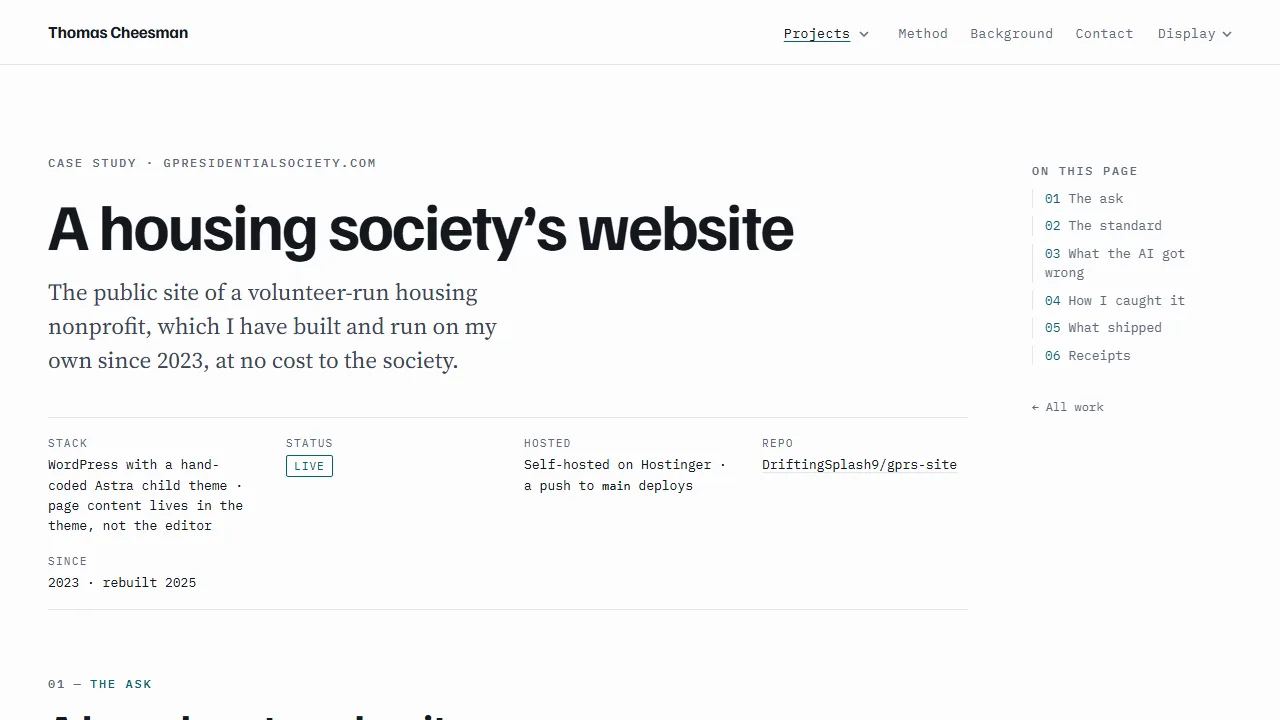
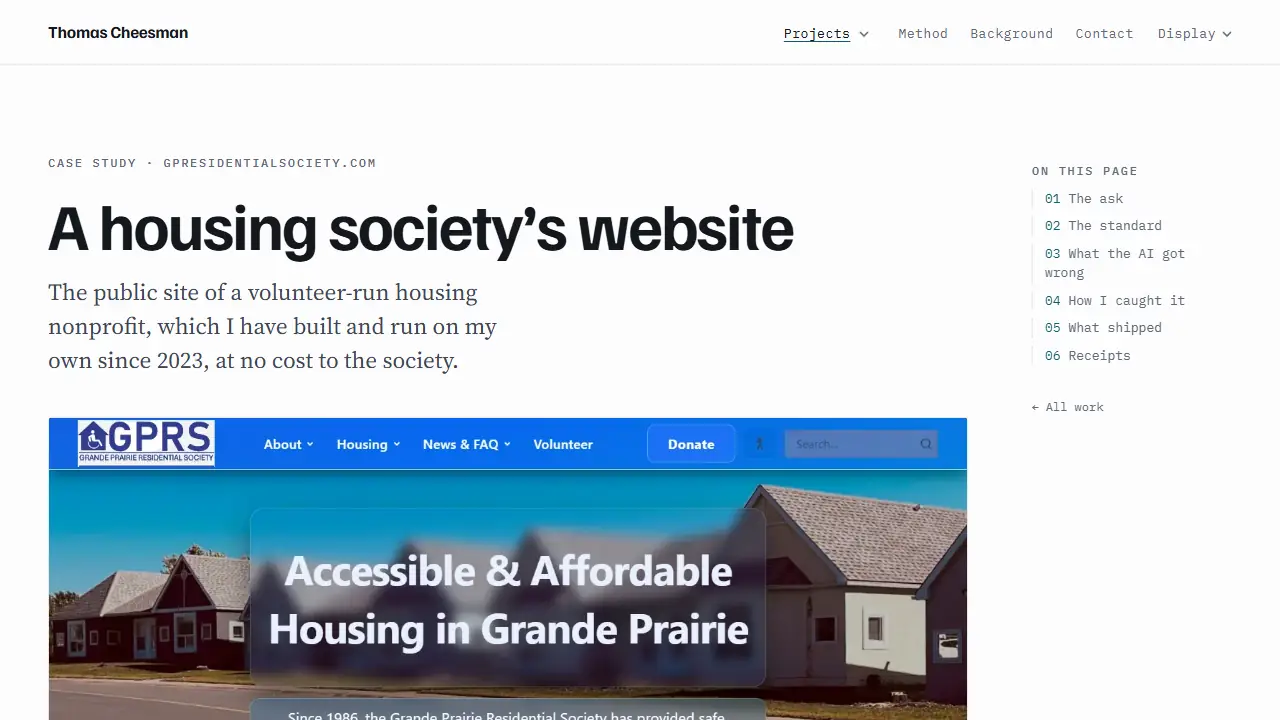
SP-A: each case study opens on its own picture (not yet ruled)

Changed region(s): [[0.0312, 0.5806, 0.7812, 1.0]]

diff --git a/public/assets/style.css b/public/assets/style.css
@@ -1083,6 +1083,51 @@ button.btn:focus-visible { outline: var(--focus-w) solid var(--accent); outline-
 .cs-head__meta dd a { color: var(--ink); text-decoration-color: var(--rule); }
 .cs-head__meta dd a:hover { color: var(--accent); text-decoration-color: var(--accent); }
 
+/* ---- the opener (SP-A, copy-review-011) -----------------------------------
+   Each case study opens on its own picture, under the claim and before the
+   meta strip, the width of the wide lane (Q-SP1 A). It is Fig. 1: the figure
+   counter starts at the main column, not at .cs-body. The frame clips the
+   picture, so the settle below never widens the page.
+   Under Full only, as the page scrolls, the picture settles from slightly
+   larger and the meta strip rises in behind it: a scroll-driven animation,
+   no script. Reduced, Off and browsers without scroll timelines: still.
+   -------------------------------------------------------------------------- */
+
+.cs-layout__main { counter-reset: fig; }
+.cs-opener { margin: clamp(28px, 4vw, 40px) 0 0; }
+.cs-opener__frame { overflow: clip; border: 1px solid var(--rule); border-radius: 3px; background: #060913; }
+.cs-opener__frame > img { display: block; border: 0; border-radius: 0; }
+.cs-opener figcaption { counter-increment: fig; }
+.cs-opener figcaption::before { content: "Fig. " counter(fig) "\2002"; color: var(--accent); font-weight: 500; }
+
+/* Bare Your Rare's opener is its structured-data excerpt, set large (Q-SP2 A).
+   The excerpt keeps its own border and ground, and its caption is unnumbered,
+   as every excerpt's is. */
+.excerpt.cs-opener { max-width: none; }
+.excerpt.cs-opener .cs-opener__frame { border: 0; border-radius: 0; background: none; }
+.excerpt.cs-opener figcaption::before { content: none; }
+.excerpt.cs-opener figcaption { counter-increment: none; }
+.excerpt.cs-opener pre { font-size: clamp(0.95rem, 1.7vw, 1.2rem); padding: var(--s-5) var(--s-6); }
+
+@keyframes cs-settle { from { transform: scale(1.06); } to { transform: none; } }
+@keyframes cs-rise { from { transform: translateY(1.5rem); } to { transform: none; } }
+@supports (animation-timeline: scroll()) {
+  :root[data-motion="full"] .cs-opener__frame > * {
+    animation: cs-settle linear both; animation-timeline: scroll(root); animation-range: 0 50vh;
+  }
+  :root[data-motion="full"] .cs-opener ~ .cs-head__meta {
+    animation: cs-rise linear both; animation-timeline: scroll(root); animation-range: 0 40vh;
+  }
+  @media (prefers-reduced-motion: no-preference) {
+    :root:not([data-motion]) .cs-opener__frame > * {
+      animation: cs-settle linear both; animation-timeline: scroll(root); animation-range: 0 50vh;
+    }
+    :root:not([data-motion]) .cs-opener ~ .cs-head__meta {
+      animation: cs-rise linear both; animation-timeline: scroll(root); animation-range: 0 40vh;
+    }
+  }
+}
+
 /* status tag — a word, not a colour. */
 .tag {
   display: inline-block;
@@ -1149,7 +1194,7 @@ button.btn:focus-visible { outline: var(--focus-w) solid var(--accent); outline-
    reading lane; anything with the .wide class takes the whole main column.
    -------------------------------------------------------------------------- */
 
-.cs-body { counter-reset: cs-sec fig; padding-bottom: var(--section); }
+.cs-body { counter-reset: cs-sec; padding-bottom: var(--section); }   /* fig starts at .cs-layout__main (the opener) */
 
 .cs-section { padding-top: var(--section); }
 .cs-section:first-of-type { padding-top: clamp(40px, 6vw, 64px); }

diff --git a/public/work/this-site.html b/public/work/this-site.html
@@ -117,6 +117,12 @@
             The site you are reading, built with AI agents one numbered session at a time. The
             handoffs, the rules and my rulings on its copy are public in the repo.
           </p>
+          <figure class="shot cs-opener">
+            <div class="cs-opener__frame"><img src="/assets/img/this-site-home.webp" width="1280" height="720" fetchpriority="high" decoding="async"
+                 alt="The home page: the heading I run a nonprofit's website, and I hold it to a written standard, above the opening paragraph, with the build ledger drawn in 3D to its right, and Projects, Method, Background and Contact in the menu."></div>
+            <figcaption>The home page.</figcaption>
+          </figure>
+
           <dl class="cs-head__meta">
             <div><dt>Stack</dt><dd>Hand-written HTML and CSS, with a little JavaScript on top &middot; one stylesheet &middot; no framework, no build step</dd></div>
             <div><dt>Status</dt><dd><span class="tag tag--live">Live</span> &nbsp;rebuild in progress</dd></div>
@@ -386,18 +392,11 @@
               code libraries and the fonts are served from the site itself, not from a third party.
             </p>
 
-            <div class="shot--pair wide">
-              <figure class="shot shot--fixed">
-                <img src="/assets/img/this-site-home.webp" width="1280" height="720" loading="lazy" decoding="async"
-                     alt="The home page: the heading I run a nonprofit's website, and I hold it to a written standard, above the opening paragraph, with the build ledger drawn in 3D to its right, and Projects, Method, Background and Contact in the menu.">
-                <figcaption>The home page.</figcaption>
-              </figure>
-              <figure class="shot shot--fixed">
-                <img src="/assets/img/this-site-gprs.webp" width="1280" height="720" loading="lazy" decoding="async"
-                     alt="The GPRS case study: the heading A housing society's website, a one-line summary, a table of stack, status and hosting, and a side index of the six sections.">
-                <figcaption>The first case study, built from the same template as this page.</figcaption>
-              </figure>
-            </div>
+            <figure class="shot">
+              <img src="/assets/img/this-site-gprs.webp" width="1280" height="720" loading="lazy" decoding="async"
+                   alt="The GPRS case study: the heading A housing society's website, a one-line summary, a table of stack, status and hosting, and a side index of the six sections.">
+              <figcaption>The first case study, built from the same template as this page.</figcaption>
+            </figure>
 
             <h3>The honest limits</h3>
             <p>

diff --git a/public/work/gprs.html b/public/work/gprs.html
@@ -116,6 +116,12 @@
             The public site of a volunteer-run housing nonprofit, which I have built and run
             on my own since 2023, at no cost to the society.
           </p>
+          <figure class="shot cs-opener">
+            <div class="cs-opener__frame"><img src="/assets/img/gprs-home.webp" width="1280" height="720" fetchpriority="high" decoding="async"
+                 alt="The society's home page: a row of single-storey houses along a street, under the heading Accessible and Affordable Housing in Grande Prairie, with Apply Now and Volunteer buttons."></div>
+            <figcaption>The home page. Applying is the first button.</figcaption>
+          </figure>
+
           <dl class="cs-head__meta">
             <div><dt>Stack</dt><dd>WordPress with a hand-coded Astra child theme &middot; page content lives in the theme, not the editor</dd></div>
             <div><dt>Status</dt><dd><span class="tag tag--live">Live</span></dd></div>
@@ -264,18 +270,11 @@
               <a href="https://gpresidentialsociety.com/margaret-edgson-manor-rebuild-efforts/">Margaret Edgson Manor rebuild page</a>.
             </p>
 
-            <div class="shot--pair wide">
-              <figure class="shot shot--fixed">
-                <img src="/assets/img/gprs-home.webp" width="1280" height="720" loading="lazy" decoding="async"
-                     alt="The society's home page: a row of single-storey houses along a street, under the heading Accessible and Affordable Housing in Grande Prairie, with Apply Now and Volunteer buttons.">
-                <figcaption>The home page. Applying is the first button.</figcaption>
-              </figure>
-              <figure class="shot shot--fixed">
-                <img src="/assets/img/gprs-rebuild.webp" width="1280" height="720" loading="lazy" decoding="async"
-                     alt="The rebuild page: a four-storey apartment building under repair with a boom lift in front, under the heading Rebuilding Margaret Edgson Manor.">
-                <figcaption>The Margaret Edgson Manor rebuild page.</figcaption>
-              </figure>
-            </div>
+            <figure class="shot">
+              <img src="/assets/img/gprs-rebuild.webp" width="1280" height="720" loading="lazy" decoding="async"
+                   alt="The rebuild page: a four-storey apartment building under repair with a boom lift in front, under the heading Rebuilding Margaret Edgson Manor.">
+              <figcaption>The Margaret Edgson Manor rebuild page.</figcaption>
+            </figure>
 
             <h3>The honest limits</h3>
             <p>

diff --git a/public/work/bare-your-rare.html b/public/work/bare-your-rare.html
@@ -117,6 +117,29 @@
             Five plain-language guides to ultra-rare conditions, marked up so a search engine or an AI
             assistant can tell what each page is, who wrote it, and when it was last reviewed.
           </p>
+          <figure class="excerpt cs-opener">
+            <div class="cs-opener__frame"><pre>{
+  "@type": <mark>"MedicalWebPage"</mark>,
+  &hellip;
+  "medicalAudience": {
+    "@type": <mark>"Patient"</mark>
+  },
+  "about": {
+    "@type": "MedicalCondition",
+    "name": <mark>"Hajdu-Cheney Syndrome"</mark>,
+    &hellip;
+  },
+  "author": {
+    "@type": "Person",
+    "name": <mark>"Thomas Cheesman"</mark>,
+    &hellip;
+  },
+  &hellip;
+  "lastReviewed": <mark>"2026-04"</mark>
+}</pre></div>
+            <figcaption>Part of the structured data <code>/hcs-guide/</code> serves, verbatim, trimmed to the fields named above. &ldquo;&hellip;&rdquo; marks what was left out.<a class="receipt" href="https://bareyourrare.org/hcs-guide/">bareyourrare.org/hcs-guide</a></figcaption>
+          </figure>
+
           <dl class="cs-head__meta">
             <div><dt>Stack</dt><dd>WordPress with a hand-coded Astra child theme &middot; page content lives in the theme, not the editor</dd></div>
             <div><dt>Status</dt><dd><span class="tag tag--live">Live</span></dd></div>
@@ -193,29 +216,6 @@
               it was last reviewed. That date comes from the same function as the date printed on the
               page, so the two can&rsquo;t disagree.<a class="receipt" href="https://github.com/DriftingSplash9/tc-ventures-site/blob/main/handoff-012.md">handoff-012, O-11</a>
             </p>
-
-            <figure class="excerpt">
-              <pre>{
-  "@type": <mark>"MedicalWebPage"</mark>,
-  &hellip;
-  "medicalAudience": {
-    "@type": <mark>"Patient"</mark>
-  },
-  "about": {
-    "@type": "MedicalCondition",
-    "name": <mark>"Hajdu-Cheney Syndrome"</mark>,
-    &hellip;
-  },
-  "author": {
-    "@type": "Person",
-    "name": <mark>"Thomas Cheesman"</mark>,
-    &hellip;
-  },
-  &hellip;
-  "lastReviewed": <mark>"2026-04"</mark>
-}</pre>
-              <figcaption>Part of the structured data <code>/hcs-guide/</code> serves, verbatim, trimmed to the fields named above. &ldquo;&hellip;&rdquo; marks what was left out.<a class="receipt" href="https://bareyourrare.org/hcs-guide/">bareyourrare.org/hcs-guide</a></figcaption>
-            </figure>
           </section>
           <section class="cs-section" id="wrong" aria-labelledby="h-wrong">
             <span class="cs-section__num">What the AI got wrong</span>

diff --git a/public/work/influence-graph.html b/public/work/influence-graph.html
@@ -116,6 +116,17 @@
             A 3D map of where official numbers come from, where a line between two reports goes in
             only if a published document says it belongs there.
           </p>
+          <figure class="shot cs-opener">
+            <div class="cs-opener__frame"><img src="/assets/img/graph-app-ui.webp" width="1900" height="886" fetchpriority="high" decoding="async"
+                 alt="The graph application: a dark canvas holding several dense, differently coloured clusters of spheres joined by fine lines, with a filter panel down the left side and layout controls down the right."></div>
+            <figcaption>
+              The application itself, filtered to national-tier reports. Colour groups reports by the
+              statistical system that publishes them. The panels are filters on one side and the layout
+              physics on the other &mdash; spacing and node size change what a viewer believes about the
+              data, so both are controls rather than settings I picked once and hid.
+            </figcaption>
+          </figure>
+
           <dl class="cs-head__meta">
             <div><dt>Stack</dt><dd>TypeScript &middot; Vite &middot; React &middot; three-forcegraph &middot; d3-force-3d &middot; no backend</dd></div>
             <div><dt>Status</dt><dd><span class="tag">In active development</span></dd></div>
@@ -377,17 +388,6 @@
                 </li>
               </ol>
             </section>
-
-            <figure class="shot wide">
-              <img src="/assets/img/graph-app-ui.webp" width="1900" height="886" loading="lazy" decoding="async"
-                   alt="The graph application: a dark canvas holding several dense, differently coloured clusters of spheres joined by fine lines, with a filter panel down the left side and layout controls down the right.">
-              <figcaption>
-                The application itself, filtered to national-tier reports. Colour groups reports by the
-                statistical system that publishes them. The panels are filters on one side and the layout
-                physics on the other &mdash; spacing and node size change what a viewer believes about the
-                data, so both are controls rather than settings I picked once and hid.
-              </figcaption>
-            </figure>
 
             <figure class="shot wide">
               <img src="/assets/img/graph-nations.webp" width="1280" height="800" loading="lazy" decoding="async"

diff --git a/public/work/desk-and-drawer.html b/public/work/desk-and-drawer.html
@@ -117,6 +117,15 @@
             with a pinball table in it. The plain list of links is the default; the desk is there for
             anyone who asks.
           </p>
+          <figure class="shot cs-opener">
+            <div class="cs-opener__frame"><img src="/assets/img/desk-hotspots.webp" width="1600" height="745" fetchpriority="high" decoding="async"
+                 alt="A photograph of a home-office desk used as a website menu: a wide curved monitor running a screensaver of falling green characters signed TC 'Ventures, a lit mechanical keyboard, a mug, a small stuffed toy, a rubber duck and a stack of books, with a small on-screen pill reading View as a plain list."></div>
+            <figcaption>
+              The desk itself, which is a menu. Each object is a hotspot with its own card; the pill in
+              the middle is the way out to an ordinary list of links.
+            </figcaption>
+          </figure>
+
           <dl class="cs-head__meta">
             <div><dt>Stack</dt><dd>WordPress with a hand-coded Astra child theme &middot; plain JavaScript and CSS, no framework</dd></div>
             <div><dt>Status</dt><dd><span class="tag tag--live">Live</span></dd></div>
@@ -296,15 +305,6 @@
               habit came out of kitchens, where the delivery not showing up is not an excuse, it is
               Tuesday.
             </p>
-
-            <figure class="shot wide">
-              <img src="/assets/img/desk-hotspots.webp" width="1600" height="745" loading="lazy" decoding="async"
-                   alt="A photograph of a home-office desk used as a website menu: a wide curved monitor running a screensaver of falling green characters signed TC 'Ventures, a lit mechanical keyboard, a mug, a small stuffed toy, a rubber duck and a stack of books, with a small on-screen pill reading View as a plain list.">
-              <figcaption>
-                The desk itself, which is a menu. Each object is a hotspot with its own card; the pill in
-                the middle is the way out to an ordinary list of links.
-              </figcaption>
-            </figure>
 
             <figure class="shot wide">
               <img src="/assets/img/desk-arcade.webp" width="1600" height="1000" loading="lazy" decoding="async"

diff --git a/public/work/back-quarter.html b/public/work/back-quarter.html
@@ -117,6 +117,15 @@
             around in a buggy. Drive up to most of its buildings and press Enter, and a page of the site
             opens. The ordinary menu still works if none of it loads.
           </p>
+          <figure class="shot cs-opener">
+            <div class="cs-opener__frame"><img src="/assets/img/back-quarter-3d.webp" width="1600" height="900" fetchpriority="high" decoding="async"
+                 alt="A low-polygon farmyard in daylight, seen from beside a campfire ring: an orange roll-caged buggy with a spare wheel on the back, a white camper trailer, a sheep and a spotted dog on the grass, and beyond them a brick windmill, twin grain bins, a red gambrel barn and a line of spruce."></div>
+            <figcaption>
+              The 3D world, mid-afternoon: the quarter section modelled and lit, with a day and night cycle
+              running over it.
+            </figcaption>
+          </figure>
+
           <dl class="cs-head__meta">
             <div><dt>Stack</dt><dd>WordPress with a hand-coded Astra child theme &middot; Three.js and Matter for the 3D world</dd></div>
             <div><dt>Status</dt><dd><span class="tag tag--live">Live</span></dd></div>
@@ -302,15 +311,6 @@
               glow was first tuned at dusk, and in daylight the white church blazed featureless white.
               Light has to behave like light, or the farm stops being a place.
             </p>
-
-            <figure class="shot wide">
-              <img src="/assets/img/back-quarter-3d.webp" width="1600" height="900" loading="lazy" decoding="async"
-                   alt="A low-polygon farmyard in daylight, seen from beside a campfire ring: an orange roll-caged buggy with a spare wheel on the back, a white camper trailer, a sheep and a spotted dog on the grass, and beyond them a brick windmill, twin grain bins, a red gambrel barn and a line of spruce.">
-              <figcaption>
-                The 3D world, mid-afternoon: the quarter section modelled and lit, with a day and night cycle
-                running over it.
-              </figcaption>
-            </figure>
 
             <p class="repo">
               <a href="https://thomascheesman.ca/">Drive it on thomascheesman.ca</a>, on a computer &mdash; the

diff --git a/reviews/copy-review-011.md b/reviews/copy-review-011.md
@@ -115,6 +115,35 @@ after, as numbered blocks.
 
 ---
 
+## SP-A — built, for Thomas to rule (2026-10-02, branch `sp-a-openers`)
+
+**What moved:** each case study's picture moved up, caption and all, to sit under the claim and before the
+meta strip. It's the same figure, not a copy, so it's now Fig. 1:
+- the graph: the application screenshot;
+- the farm: the 3D world;
+- the desk: the desk photograph;
+- Bare Your Rare: the structured-data excerpt, set large (Q-SP2 A);
+- GPRS: the home page;
+- this site: the home page.
+
+Where a picture left a pair (GPRS, this site), the other figure now stands alone in the reading lane. The
+settle and the rise run under Full and System only (the OS's reduce-motion means still).
+
+**The look:** `Claude outputs/sp-a/`:
+- `sp-a-light.webm` and `sp-a-dark.webm`: each page under Full, 1280 wide;
+- phone stills at 375, and Reduced stills at 1280, in both themes.
+
+**Two moves make shipped words untrue, so each comes with its fix:**
+
+| # | Where | Now | Proposed |
+|---|---|---|---|
+| SPA1 | `/work/bare-your-rare`, the excerpt's caption | "…trimmed to the fields named above. …" | "…trimmed to the fields named below. …" (the fields are named in "The standard", now under it) |
+| SPA2 | `/work/this-site`, the alt text of the GPRS case-study screenshot (retaken 2026-10-02: the old one showed the meta table where the opener now sits) | "The GPRS case study: the heading A housing society's website, a one-line summary, a table of stack, status and hosting, and a side index of the six sections." | "The GPRS case study: the heading A housing society's website, a one-line summary, and the society's home page as its first picture, with a side index of the six sections." |
+
+**Q-SPA:** the look OK / FIX (say what), and SPA1 and SPA2 OK / FIX.
+
+---
+
 ## Also for ruling: PW3 after the hero (copy-review-010, cleanup item 4)
 
 `budget.py --live`, 2026-10-02, after #54 (`22e1abb`): every page's own files are **203 kB to 601 kB on
